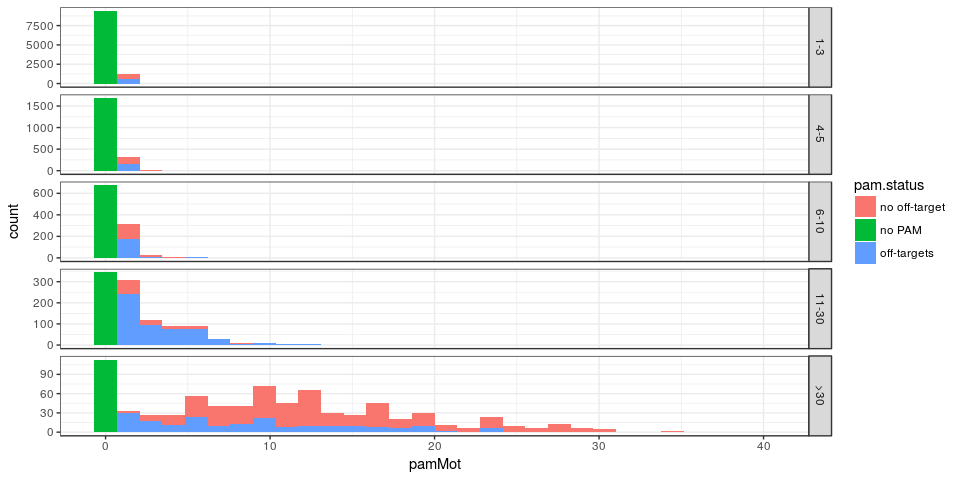
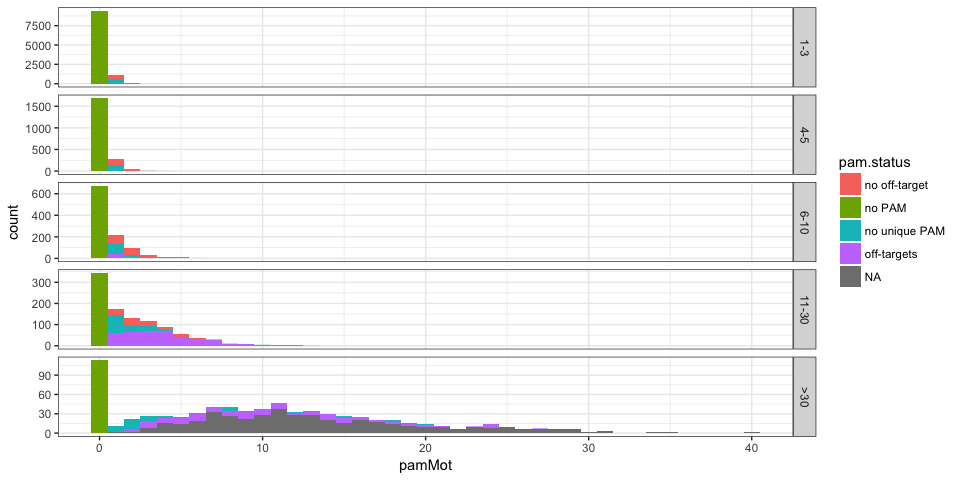
clarify output

Changed region(s): [[0.0, 0.0, 1.0, 1.0]]

diff --git a/MHcut.py b/MHcut.py
@@ -322,7 +322,7 @@ variant_input_file = open(args.varfile, 'r')
 # Change colunm names here.
 # Add/remove columns here but also in the "Write in output files" section
 inhead = variant_input_file.next().rstrip('\n')
-outhead = inhead + '\tvarL\tmhL\tmh1L\thom\tnbMM\tmhDist\tMHseq1\tMHseq2\tpamMot\tbestPamHet\tguidesNoOT\tguideMinOT'
+outhead = inhead + '\tvarL\tmhL\tmh1L\thom\tnbMM\tmhDist\tMHseq1\tMHseq2\tpamMot\tbestPamHet\tpamUniq\tguidesNoOT\tguidesMinOT'
 variant_output_file.write(outhead + '\n')
 gouthead = outhead + '\tprotospacer\tmm0\tmm1\tmm2\tm1Dist1\tm1Dist2\tmhDist1\tmhDist2\tnbOffTgt\tlargestOffTgt\tbotScore\tbotSize\tbotVarL\tbotGC\tbotSeq\n'
 guide_output_file.write(gouthead)
@@ -394,19 +394,22 @@ for input_line in variant_input_file:
         other_mh = RegionExactMH(fl1seq + varseq + fl2seq)
     else:
         other_mh = False
-    no_offtargets = 0  # Number of guides with no off target MH
+    no_offtargets = 'NA'  # Number of guides with no off target MH
     min_offtargets = 'NA'
     for pam in pams:
         # Number of off target and maximum size (no matter the score)
-        pam['ot_nb'] = 0
-        pam['ot_maxL'] = 0
+        pam['ot_nb'] = 'NA'
+        pam['ot_maxL'] = 'NA'
         # Best Off Target (bot) stats
-        pam['bot_score'] = 0
-        pam['bot_size'] = 0
-        pam['bot_vsize'] = -1
-        pam['bot_gc'] = -1
+        pam['bot_score'] = 'NA'
+        pam['bot_size'] = 'NA'
+        pam['bot_vsize'] = 'NA'
+        pam['bot_gc'] = 'NA'
         pam['bot_seq'] = 'NA'
         if other_mh:
+            pam['ot_nb'] = 0
+            pam['ot_maxL'] = 0
+            pam['bot_score'] = 0
             mhhet = other_mh.listmh(pam['cutPosition'], args.minMHLot)
             for mho in mhhet:
                 data = mhhet[mho]
@@ -422,18 +425,20 @@ for input_line in variant_input_file:
                         pam['bot_vsize'] = data['vsize']
                         pam['bot_gc'] = round(data['gc'], 3)
                         pam['bot_seq'] = data['seq']
-        if pam['ot_nb'] == 0:
-            no_offtargets += 1
-        if min_offtargets == 'NA':
-            min_offtargets = pam['ot_nb']
-        else:
-            min_offtargets = min(min_offtargets, pam['ot_nb'])
+            if no_offtargets == 'NA':
+                no_offtargets = 0
+            if pam['ot_nb'] == 0:
+                no_offtargets += 1
+            if min_offtargets == 'NA':
+                min_offtargets = pam['ot_nb']
+            else:
+                min_offtargets = min(min_offtargets, pam['ot_nb'])
     # Write in output files
     # Add/remove columns here (without forgetting the header)
     voutline = input_line_raw + '\t' + str(vsize) + '\t' + str(mhfl['mhL']) + '\t'
     voutline += str(mhfl['m1L']) + '\t' + str(round(mhfl['hom'], 2)) + '\t' + str(mhfl['nbMM'])
     voutline += '\t' + str(mhfl['mhdist']) + '\t' + mhfl['seq1'] + '\t' + mhfl['seq2']
-    voutline += '\t' + str(nb_pam_motives) + '\t' + str(best_pam_het)
+    voutline += '\t' + str(nb_pam_motives) + '\t' + str(best_pam_het) + '\t' + str(len(pams))
     voutline += '\t' + str(no_offtargets) + '\t' + str(min_offtargets)
     variant_output_file.write(voutline + '\n')
     for pam in pams:

diff --git a/reports/summaryOutput.md b/reports/summaryOutput.md
@@ -10,18 +10,13 @@ At the variant level
 
 ### PAM status
 
-![](summaryOutput_files/figure-markdown_github/pam-1.png)![](summaryOutput_files/figure-markdown_github/pam-2.png)
+*The `NA`s represents variants that were not tested for off-target because too large.*
 
-| Chromosome |      Start|       Stop|  pamMot|  guidesNoOT| guideMinOT |
-|:-----------|----------:|----------:|-------:|-----------:|:-----------|
-| chr1       |  102913660|  102913671|       2|           0| -          |
-| chr1       |    1049937|    1049951|       1|           0| 2          |
-| chr1       |  111982045|  111982047|       1|           0| -          |
-| chr1       |  114688745|  114688748|       1|           0| -          |
-| chr1       |  115695149|  115695152|       1|           0| -          |
-| chr1       |  116387403|  116387417|       1|           0| 1          |
-
-**Something wrong** with the `guideMinOT`: when `pamMot>0` and `guidesNoOT==0` some variants have `-` in their `guideMinOT` column. I think it's because there are valid PAMs but no unique ones, so they are not tested for off-targets. I should really clarify the output and use `NA` as default values in columns to avoid confusion.
+![](summaryOutput_files/figure-markdown_github/pam-1.png)![](summaryOutput_files/figure-markdown_github/pam-2.png)![](summaryOutput_files/figure-markdown_github/pam-3.png)![](summaryOutput_files/figure-markdown_github/pam-4.png)
 
 At the guide level
 ------------------
+
+![](summaryOutput_files/figure-markdown_github/guidespam-1.png)![](summaryOutput_files/figure-markdown_github/guidespam-2.png)![](summaryOutput_files/figure-markdown_github/guidespam-3.png)![](summaryOutput_files/figure-markdown_github/guidespam-4.png)![](summaryOutput_files/figure-markdown_github/guidespam-5.png)
+
+After a quick look, it seems fine.

diff --git a/README.md b/README.md
@@ -90,6 +90,7 @@ Currently the columns of the output are:
 - *MHseq1*/*MHseq2*: sequences of the MH.
 - *pamMot*: the number of PAM motives in a valid location, no matter how unique the protospacer is.
 - *bestPamHet*: the smallest heterology, i.e. distance between a valid PAM and both MH ends. For quick filtering only. For more flexibility use the information in the "guide" file.
+- *pamUniq*: the number of PAM motives in a valid location and with unique the protospacer.
 - *guidesNoOT*: the number of guides that have no off-target MH.
 - *guidesMinOT*: the number of off-target MH for the guide which have the least amount of off-target MH.
 
@@ -141,5 +142,3 @@ GGGCCGCGATGTGCAGGGCC
 ## Next
 
 - Add a *"two-cuts"* mode for large variants.
-- Clarify output. E.g. `NA` when something is not tested.
-- Add column with nb of unique PAMs.
